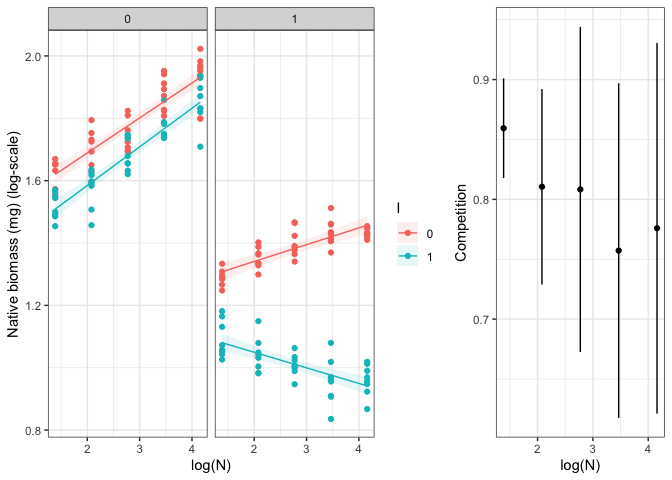
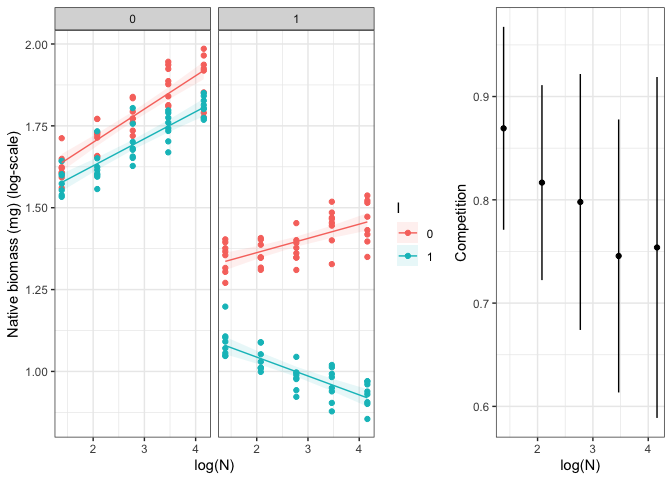
update the euqations

diff --git a/01-plan/01-pre-registration/03-analysis-plan.md b/01-plan/01-pre-registration/03-analysis-plan.md
@@ -42,14 +42,15 @@ Based on this experimental design, we will use the following linear
 model to analyse this experiment:
 
 $$log(L_{i}) = \alpha + \beta_1\text{N}_{i} + \beta_2\text{M}_{i} + \beta_3\text{N}_{i}\text{M}_{i} + \epsilon_{i}$$
+
 $$\epsilon_{i} \sim Normal(0, \sigma_{residual})$$ Based on this model,
 we can set-up the statistical hypotheses as follows:
 
 $$H_0: \beta_3 \ge 0$$ $$H_A: \beta_3 \lt 0$$
 
-Therefore, if $\beta_3$ is significantly less than zero
-(i.e. $P<0.025$), we would interpret this as evidence that plant-soil
-feedback does become stronger with increasing N.
+Therefore, if $\beta_3$ is significantly less than zero, $P<0.025$, we
+would interpret this as evidence that plant-soil feedback does become
+stronger with increasing N.
 
 ### Simulated data
 
@@ -111,12 +112,12 @@ head(dat_e1)
     # A tibble: 6 × 5
           N     M     L N_trans L_log
       <dbl> <dbl> <dbl>   <dbl> <dbl>
-    1  1.39     0  4.15       0  1.42
-    2  1.39     0  4.08       0  1.41
-    3  1.39     0  4.01       0  1.39
-    4  1.39     0  5.34       0  1.67
-    5  1.39     0  4.46       0  1.49
-    6  1.39     0  3.82       0  1.34
+    1  1.39     0  4.32       0  1.46
+    2  1.39     0  4.82       0  1.57
+    3  1.39     0  4.35       0  1.47
+    4  1.39     0  4.44       0  1.49
+    5  1.39     0  4.05       0  1.40
+    6  1.39     0  3.88       0  1.36
 
 Now we are ready to fit the model:
 
@@ -174,20 +175,20 @@ summary(lm_e1)
 
     Residuals:
           Min        1Q    Median        3Q       Max 
-    -0.211249 -0.059002  0.001865  0.052514  0.216039 
+    -0.223835 -0.073071  0.002305  0.088372  0.219450 
 
     Coefficients:
                 Estimate Std. Error t value Pr(>|t|)    
-    (Intercept)  1.50551    0.02688  56.006  < 2e-16 ***
-    M           -0.11260    0.03802  -2.962  0.00408 ** 
-    N_trans      0.19380    0.01583  12.241  < 2e-16 ***
-    M:N_trans   -0.09571    0.02239  -4.275 5.49e-05 ***
+    (Intercept)  1.53068    0.03027  50.575  < 2e-16 ***
+    M           -0.12040    0.04280  -2.813  0.00624 ** 
+    N_trans      0.17989    0.01783  10.091 1.12e-15 ***
+    M:N_trans   -0.10664    0.02521  -4.230 6.45e-05 ***
     ---
     Signif. codes:  0 '***' 0.001 '**' 0.01 '*' 0.05 '.' 0.1 ' ' 1
 
-    Residual standard error: 0.09816 on 76 degrees of freedom
-    Multiple R-squared:  0.8047,    Adjusted R-squared:  0.797 
-    F-statistic: 104.4 on 3 and 76 DF,  p-value: < 2.2e-16
+    Residual standard error: 0.1105 on 76 degrees of freedom
+    Multiple R-squared:  0.7568,    Adjusted R-squared:  0.7472 
+    F-statistic: 78.85 on 3 and 76 DF,  p-value: < 2.2e-16
 
 In this output, the $\beta_3$ parameter is the “M:N_trans” parameter.
 This output indicates that $\beta_3$ is significantly less than zero
@@ -407,12 +408,12 @@ head(dat_e2)
     # A tibble: 6 × 5
           N     M     I N_trans I_log
       <dbl> <dbl> <dbl>   <dbl> <dbl>
-    1  1.39     0  3.60       0  1.28
-    2  1.39     0  4.72       0  1.55
-    3  1.39     0  4.37       0  1.47
-    4  1.39     0  3.77       0  1.33
-    5  1.39     0  4.39       0  1.48
-    6  1.39     0  3.66       0  1.30
+    1  1.39     0  4.44       0  1.49
+    2  1.39     0  4.78       0  1.56
+    3  1.39     0  4.49       0  1.50
+    4  1.39     0  4.66       0  1.54
+    5  1.39     0  4.93       0  1.59
+    6  1.39     0  4.50       0  1.50
 
 Next, we fit the model.
 
@@ -465,20 +466,20 @@ summary(lm_e2)
 
     Residuals:
           Min        1Q    Median        3Q       Max 
-    -0.202203 -0.065219 -0.005558  0.064437  0.256962 
+    -0.220579 -0.051454  0.004022  0.068374  0.221239 
 
     Coefficients:
                 Estimate Std. Error t value Pr(>|t|)    
-    (Intercept)  1.46337    0.02680  54.609   <2e-16 ***
-    M           -0.03778    0.03790  -0.997   0.3219    
-    N_trans      0.21949    0.01578  13.907   <2e-16 ***
-    M:N_trans   -0.04677    0.02232  -2.095   0.0395 *  
+    (Intercept)  1.50977    0.02588  58.345  < 2e-16 ***
+    M           -0.12856    0.03659  -3.513 0.000749 ***
+    N_trans      0.21090    0.01524  13.838  < 2e-16 ***
+    M:N_trans   -0.01038    0.02155  -0.481 0.631628    
     ---
     Signif. codes:  0 '***' 0.001 '**' 0.01 '*' 0.05 '.' 0.1 ' ' 1
 
-    Residual standard error: 0.09785 on 76 degrees of freedom
-    Multiple R-squared:  0.8152,    Adjusted R-squared:  0.8079 
-    F-statistic: 111.7 on 3 and 76 DF,  p-value: < 2.2e-16
+    Residual standard error: 0.09449 on 76 degrees of freedom
+    Multiple R-squared:  0.8437,    Adjusted R-squared:  0.8376 
+    F-statistic: 136.8 on 3 and 76 DF,  p-value: < 2.2e-16
 
 The $\beta_3$ parameter is the “M:N_trans” parameter. This output
 indicates that $\beta_3$ is not significantly less than zero
@@ -668,12 +669,12 @@ head(dat_e3)
     # A tibble: 6 × 6
           N     M     I     L N_trans L_log
       <dbl> <dbl> <dbl> <dbl>   <dbl> <dbl>
-    1  1.39     0     0  5.23       0  1.65
-    2  1.39     0     0  5.22       0  1.65
-    3  1.39     0     0  5.21       0  1.65
-    4  1.39     0     0  5.12       0  1.63
-    5  1.39     0     0  5.31       0  1.67
-    6  1.39     0     0  5.24       0  1.66
+    1  1.39     0     0  5.20       0  1.65
+    2  1.39     0     0  5.06       0  1.62
+    3  1.39     0     0  4.76       0  1.56
+    4  1.39     0     0  5.54       0  1.71
+    5  1.39     0     0  4.92       0  1.59
+    6  1.39     0     0  4.99       0  1.61
 
 ``` r
 # fit the statistical model
@@ -719,24 +720,24 @@ summary(lm_e3)
 
     Residuals:
           Min        1Q    Median        3Q       Max 
-    -0.142785 -0.027800 -0.004756  0.036094  0.103785 
+    -0.142941 -0.032021 -0.004588  0.036934  0.118880 
 
     Coefficients:
-                Estimate Std. Error t value Pr(>|t|)    
-    (Intercept)  1.46451    0.02523  58.043  < 2e-16 ***
-    N            0.11217    0.00858  13.074  < 2e-16 ***
-    M           -0.23122    0.03568  -6.480 1.21e-09 ***
-    I           -0.12731    0.03568  -3.568 0.000482 ***
-    N:M         -0.05839    0.01213  -4.812 3.57e-06 ***
-    M:I          0.04351    0.05046   0.862 0.389963    
-    N:I          0.01154    0.01213   0.951 0.343033    
-    N:M:I       -0.11528    0.01716  -6.718 3.47e-10 ***
+                 Estimate Std. Error t value Pr(>|t|)    
+    (Intercept)  1.496584   0.023371  64.035  < 2e-16 ***
+    N            0.101586   0.007947  12.782  < 2e-16 ***
+    M           -0.220845   0.033052  -6.682 4.20e-10 ***
+    I           -0.033902   0.033052  -1.026   0.3066    
+    N:M         -0.058084   0.011239  -5.168 7.34e-07 ***
+    M:I         -0.082849   0.046743  -1.772   0.0783 .  
+    N:I         -0.018961   0.011239  -1.687   0.0937 .  
+    N:M:I       -0.082176   0.015895  -5.170 7.27e-07 ***
     ---
     Signif. codes:  0 '***' 0.001 '**' 0.01 '*' 0.05 '.' 0.1 ' ' 1
 
-    Residual standard error: 0.05319 on 152 degrees of freedom
-    Multiple R-squared:  0.973, Adjusted R-squared:  0.9718 
-    F-statistic: 782.8 on 7 and 152 DF,  p-value: < 2.2e-16
+    Residual standard error: 0.04927 on 152 degrees of freedom
+    Multiple R-squared:  0.977, Adjusted R-squared:  0.976 
+    F-statistic: 924.4 on 7 and 152 DF,  p-value: < 2.2e-16
 
 The $\beta_7$ parameter is the “N:M:I” parameter. This output indicates
 that $\beta_7$ is significantly less than zero ()
@@ -823,19 +824,19 @@ summary(comp_e3_boot)
 ```
 
      bootstrap_i              N               M         without_I    
-     Length:9990        Min.   :1.386   Min.   :0.0   Min.   :3.526  
-     Class :character   1st Qu.:2.079   1st Qu.:0.0   1st Qu.:4.066  
-     Mode  :character   Median :2.773   Median :0.5   Median :4.602  
-                        Mean   :2.773   Mean   :0.5   Mean   :4.971  
-                        3rd Qu.:3.466   3rd Qu.:1.0   3rd Qu.:5.723  
-                        Max.   :4.159   Max.   :1.0   Max.   :7.418  
+     Length:9900        Min.   :1.386   Min.   :0.0   Min.   :3.604  
+     Class :character   1st Qu.:2.079   1st Qu.:0.0   1st Qu.:3.967  
+     Mode  :character   Median :2.773   Median :0.5   Median :4.761  
+                        Mean   :2.773   Mean   :0.5   Mean   :5.004  
+                        3rd Qu.:3.466   3rd Qu.:1.0   3rd Qu.:5.921  
+                        Max.   :4.159   Max.   :1.0   Max.   :7.208  
          with_I       competition    
-     Min.   :2.306   Min.   :0.5460  
-     1st Qu.:2.740   1st Qu.:0.6745  
-     Median :3.746   Median :0.8473  
-     Mean   :4.086   Mean   :0.8022  
-     3rd Qu.:5.389   3rd Qu.:0.9066  
-     Max.   :6.929   Max.   :1.0619  
+     Min.   :2.382   Min.   :0.5351  
+     1st Qu.:2.678   1st Qu.:0.6755  
+     Median :3.902   Median :0.8241  
+     Mean   :4.088   Mean   :0.7967  
+     3rd Qu.:5.443   3rd Qu.:0.9149  
+     Max.   :6.362   Max.   :1.0256  
 
 ``` r
 # summarise these bootstrapped samples
